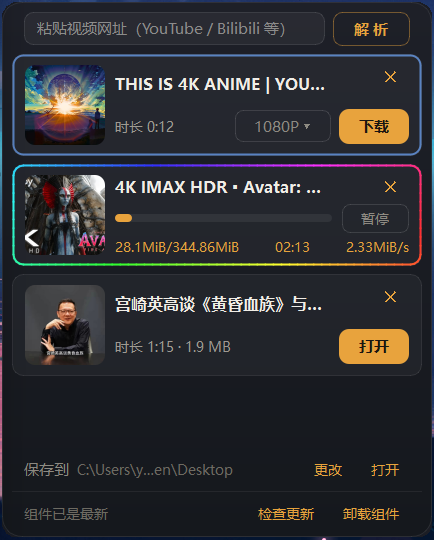
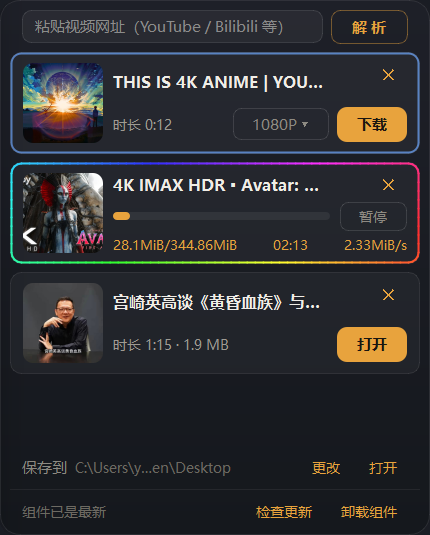
docs(readme): 功能截图改三联表格（格子/传输/视频解析），selfshot 新增多状态传输记录场景

diff --git a/selfshot.py b/selfshot.py
@@ -181,6 +181,9 @@ class _Runner(object):
             self.job('%s_transfer_busy' % theme, 400,
                      lambda: (p.set_tab(2, save=False), self._make_busy_transfer()),
                      lambda: p, teardown=self._clear_busy_transfer)
+            self.job('%s_transfer_records' % theme, 400,
+                     lambda: (p.set_tab(2, save=False), self._make_records_transfer()),
+                     lambda: p, teardown=self._clear_records_transfer)
             self.job('%s_video' % theme, 400,
                      lambda: p.set_tab(3, save=False), lambda: p)
             self.job('%s_video_parsed' % theme, 400,
@@ -316,6 +319,44 @@ class _Runner(object):
         rec['_speed'] = 3.2 * 2 ** 20
         t._update_record(rec)
         self._busy_key = key
+
+    def _make_records_transfer(self):
+        '''注入多条不同状态的传输记录：完成 / 传输中（跑马灯）/ 已取消 / 失败。'''
+        t = self.panel.transfer
+        self._rec_keys = []
+        specs = [
+            ('down', ['旅行照片合集.zip'], 18.6, 'DESKTOP-PC', 'done'),
+            ('up', ['产品设计稿.png'], 32.0, 'My-Phone', 'busy'),
+            ('down', ['会议纪要.docx'], 86.0 / 1024, 'DESKTOP-PC', 'cancelled'),
+            ('up', ['安装包.apk'], 120.0, 'Pixel 6', 'fail'),
+        ]
+        for direction, names, mb, peer, state in specs:
+            total = int(mb * 2 ** 20)
+            key = t._add_record(direction, names, total, peer=peer)
+            rec = t._records[key]
+            rec['state'] = state
+            if state == 'busy':
+                rec['done'] = int(total * 0.63)
+                rec['_speed'] = 5.6 * 2 ** 20
+            elif state == 'fail':
+                rec['err'] = '连接中断'
+            t._update_record(rec)
+            self._rec_keys.append(key)
+
+    def _clear_records_transfer(self):
+        try:
+            t = self.panel.transfer
+            for key in getattr(self, '_rec_keys', []):
+                rec = t._records.pop(key, None)
+                if key in t._rec_keys:
+                    t._rec_keys.remove(key)
+                if rec is not None:
+                    rec['row'].set_glow('')
+                    t.rec_lay.removeWidget(rec['row'])
+                    rec['row'].deleteLater()
+            self._rec_keys = []
+        except Exception:
+            pass
 
     def _clear_busy_transfer(self):
         try:

diff --git a/README.md b/README.md
@@ -8,10 +8,13 @@ Windows 桌面整理工具：桌面格子 + 悬浮面板（日历 / 待办 / 传
 
 ## 功能
 
-<p align="center">
-  <a href="assets/features.png"><img src="assets/features-thumb.png" alt="功能一览（点击查看大图）"></a>
-  <a href="assets/video.png"><img src="assets/video-thumb.png" alt="视频解析（点击查看大图）"></a>
-</p>
+<table>
+  <tr>
+    <td align="center"><a href="assets/box.png"><img src="assets/box.png" width="260" alt="桌面格子"></a><br><b>桌面格子</b></td>
+    <td align="center"><a href="assets/transfer.png"><img src="assets/transfer.png" width="260" alt="文件传输"></a><br><b>文件传输</b></td>
+    <td align="center"><a href="assets/video.png"><img src="assets/video.png" width="260" alt="视频解析"></a><br><b>视频解析</b></td>
+  </tr>
+</table>
 
 1. **桌面整理**：文件拖入格子即归类，图标自动收纳还原
 2. **悬浮面板**：
